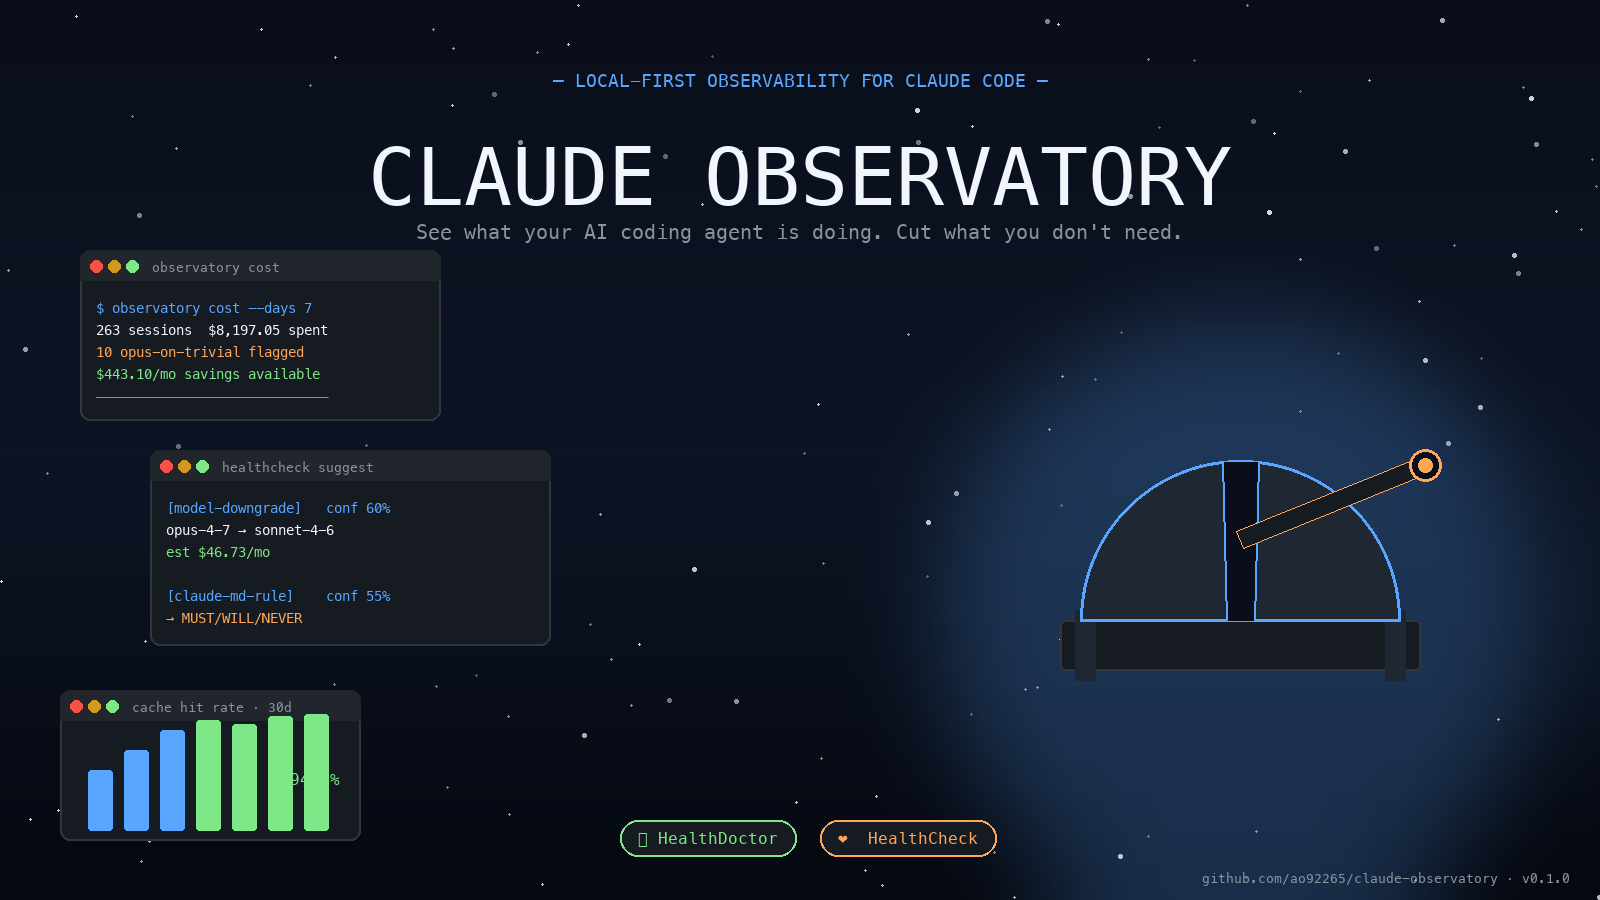
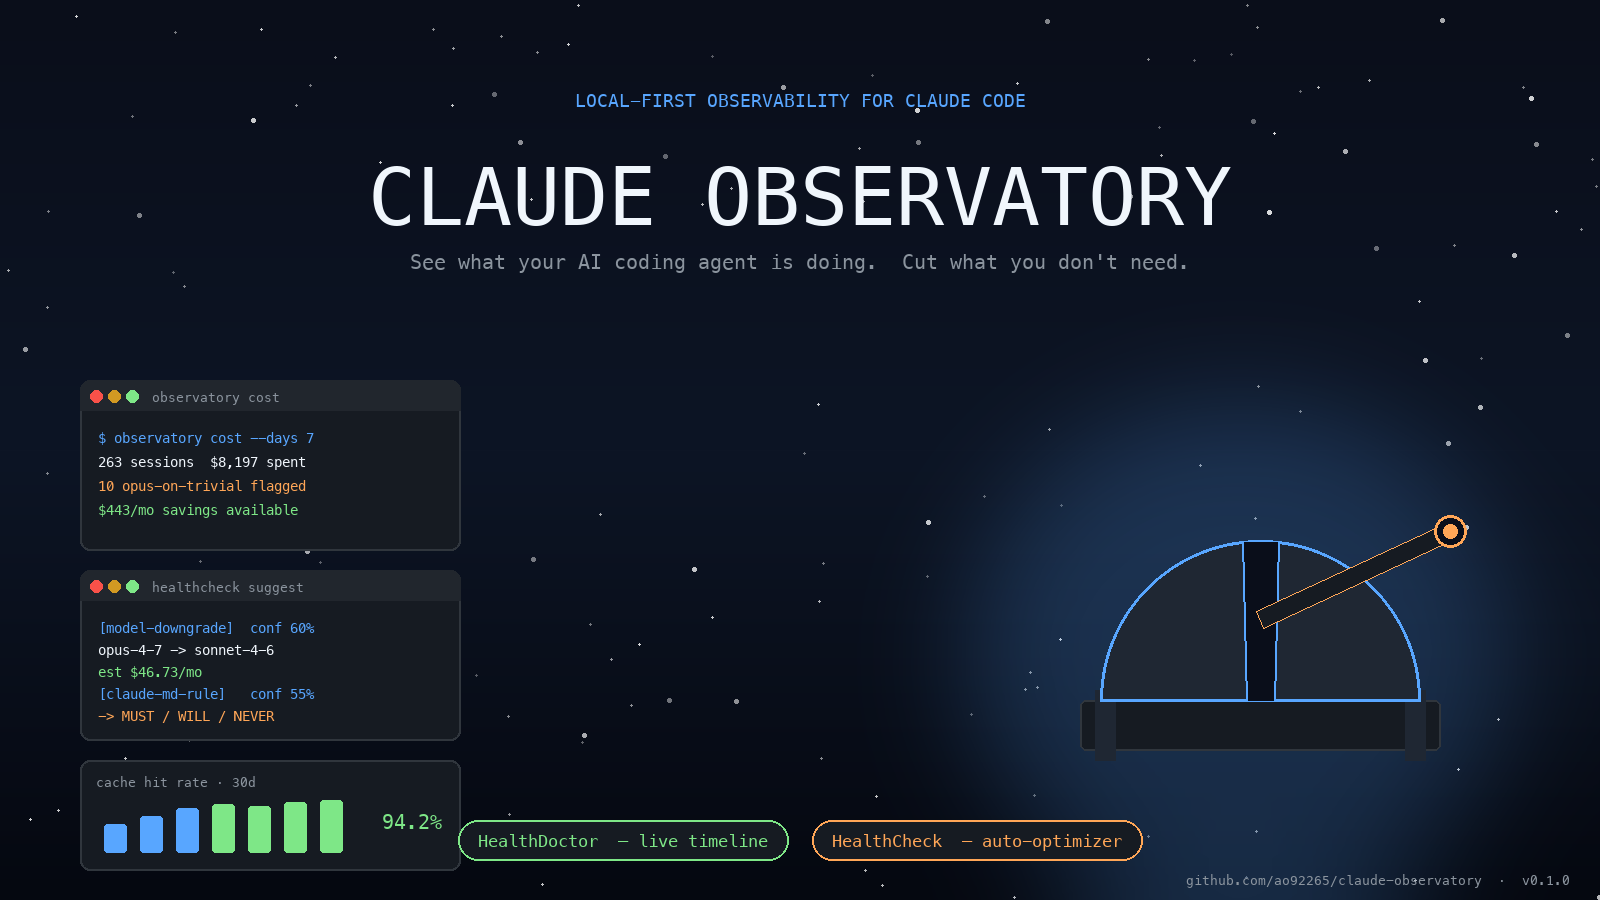
docs: rewrite viva post in human voice, fix cover layout
Post:
- Drop AI-tells (em dashes, "Hey all", "So here's the thing")
- Concrete, casual, less hype
- Real findings block kept verbatim

Cover image:
- 3 left panels vertically stacked, no overlap
- Bar chart separate panel, 94.2% label right of bars (was overlapping)
- Bottom pills with descriptive labels (no emoji glyph boxes)
- Observatory clear of UI elements
- Footer readable bottom-right

diff --git a/docs/images/build_cover.py b/docs/images/build_cover.py
@@ -1,4 +1,8 @@
-"""Generate viva-cover.png at 1600x900 directly with Pillow (no SVG rasterizer needed)."""
+"""Generate viva-cover.png at 1600x900 with Pillow. No SVG rasterizer needed."""
+from __future__ import annotations
+
+import math
+import random
 from pathlib import Path
 
 from PIL import Image, ImageDraw, ImageFilter, ImageFont
@@ -22,14 +26,12 @@ RED = (248, 81, 73)
 YELLOW = (210, 153, 34)
 
 
-def font(size: int, bold: bool = False) -> ImageFont.FreeTypeFont:
-    candidates = [
+def font(size: int) -> ImageFont.FreeTypeFont:
+    for p in (
         "/System/Library/Fonts/Menlo.ttc",
         "/System/Library/Fonts/Monaco.ttf",
         "/System/Library/Fonts/SFNSMono.ttf",
-        "/Library/Fonts/Menlo.ttc",
-    ]
-    for p in candidates:
+    ):
         if Path(p).exists():
             try:
                 return ImageFont.truetype(p, size)
@@ -38,11 +40,15 @@ def font(size: int, bold: bool = False) -> ImageFont.FreeTypeFont:
     return ImageFont.load_default()
 
 
+def text_width(draw: ImageDraw.ImageDraw, txt: str, f: ImageFont.FreeTypeFont) -> int:
+    return int(draw.textlength(txt, font=f))
+
+
 # --- Build canvas ---
 img = Image.new("RGB", (W, H), BG_MID)
 draw = ImageDraw.Draw(img)
 
-# Vertical gradient background
+# Vertical gradient
 for y in range(H):
     t = y / H
     if t < 0.5:
@@ -57,56 +63,43 @@ for y in range(H):
         b = int(BG_MID[2] * (1 - u) + BG_BOT[2] * u)
     draw.line([(0, y), (W, y)], fill=(r, g, b))
 
-# Starfield
-import random
+# Starfield (avoid the central title band 60-280)
 random.seed(7)
-for _ in range(140):
+for _ in range(160):
     x = random.randint(0, W - 1)
     y = random.randint(0, H - 1)
+    if 280 < y < 380 and 200 < x < 1400:
+        continue  # keep subtitle area clean
     r = random.choice([1, 1, 1, 2])
-    alpha = random.randint(80, 220)
-    c = (255, 255, 255, alpha)
-    star = Image.new("RGBA", (r * 3, r * 3), (0, 0, 0, 0))
-    sd = ImageDraw.Draw(star)
-    sd.ellipse([0, 0, r * 2, r * 2], fill=c)
-    img.paste(star, (x, y), star)
+    a = random.randint(80, 220)
+    s = Image.new("RGBA", (r * 3, r * 3), (0, 0, 0, 0))
+    ImageDraw.Draw(s).ellipse([0, 0, r * 2, r * 2], fill=(255, 255, 255, a))
+    img.paste(s, (x, y), s)
 
-# Glow halo around dome (right side)
+# Glow halo around dome
 glow = Image.new("RGBA", (W, H), (0, 0, 0, 0))
-gd = ImageDraw.Draw(glow)
-gd.ellipse([900, 280, 1580, 960], fill=(88, 166, 255, 60))
-glow = glow.filter(ImageFilter.GaussianBlur(60))
+ImageDraw.Draw(glow).ellipse([920, 360, 1560, 940], fill=(88, 166, 255, 55))
+glow = glow.filter(ImageFilter.GaussianBlur(70))
 img.paste(glow, (0, 0), glow)
 
 # --- Observatory (right) ---
-ox, oy = 1240, 620
-# Base platform
+ox, oy = 1260, 700
 draw.rounded_rectangle([ox - 180, oy, ox + 180, oy + 50], radius=6, fill=PANEL, outline=BORDER, width=2)
-# Pillars
 draw.rectangle([ox - 165, oy - 10, ox - 145, oy + 60], fill=(31, 39, 51))
 draw.rectangle([ox + 145, oy - 10, ox + 165, oy + 60], fill=(31, 39, 51))
-# Dome (half-circle on top)
 draw.pieslice([ox - 160, oy - 160, ox + 160, oy + 160], 180, 360, fill=(31, 39, 51), outline=BLUE, width=3)
-# Dome slit
 draw.polygon([(ox - 18, oy - 158), (ox + 18, oy - 158), (ox + 14, oy), (ox - 14, oy)], fill=BG_TOP)
 draw.line([(ox - 18, oy - 158), (ox - 14, oy)], fill=BLUE, width=2)
 draw.line([(ox + 18, oy - 158), (ox + 14, oy)], fill=BLUE, width=2)
-# Telescope barrel (tilted)
-import math
-angle = math.radians(-22)
+# Telescope barrel
+angle = math.radians(-25)
 cx, cy = ox, oy - 80
-tl = 200
-tw = 18
+tl, tw = 210, 18
 dx, dy = math.cos(angle), math.sin(angle)
 px, py = -math.sin(angle) * tw / 2, math.cos(angle) * tw / 2
 ax, ay = cx + dx * tl, cy + dy * tl
 draw.polygon(
-    [
-        (cx + px, cy + py),
-        (cx - px, cy - py),
-        (ax - px, ay - py),
-        (ax + px, ay + py),
-    ],
+    [(cx + px, cy + py), (cx - px, cy - py), (ax - px, ay - py), (ax + px, ay + py)],
     fill=PANEL,
     outline=ORANGE,
 )
@@ -114,7 +107,16 @@ draw.ellipse([ax - 16, ay - 16, ax + 16, ay + 16], fill=BG_TOP, outline=ORANGE, 
 draw.ellipse([ax - 7, ay - 7, ax + 7, ay + 7], fill=ORANGE)
 
 
-def panel(x: int, y: int, w: int, h: int, title: str, lines: list[tuple[str, tuple[int, int, int]]]) -> None:
+def panel(
+    x: int,
+    y: int,
+    w: int,
+    h: int,
+    title: str,
+    lines: list[tuple[str, tuple[int, int, int]]],
+    line_h: int = 24,
+    pad_top: int = 50,
+) -> None:
     draw.rounded_rectangle([x, y, x + w, y + h], radius=10, fill=PANEL, outline=BORDER, width=2)
     draw.rounded_rectangle([x, y, x + w, y + 30], radius=10, fill=PANEL_HEAD)
     draw.rectangle([x, y + 20, x + w, y + 30], fill=PANEL_HEAD)
@@ -123,76 +125,87 @@ def panel(x: int, y: int, w: int, h: int, title: str, lines: list[tuple[str, tup
     draw.ellipse([x + 46, y + 10, x + 58, y + 22], fill=GREEN)
     draw.text((x + 72, y + 9), title, fill=DIM, font=font(13))
     for i, (txt, col) in enumerate(lines):
-        draw.text((x + 16, y + 50 + i * 22), txt, fill=col, font=font(14))
+        draw.text((x + 18, y + pad_top + i * line_h), txt, fill=col, font=font(14))
 
 
-# --- Three terminal panels ---
+# --- Three terminal panels (left side, vertically spaced, no overlap) ---
 panel(
-    80, 250, 360, 170, "observatory cost",
+    80, 380, 380, 170, "observatory cost",
     [
         ("$ observatory cost --days 7", BLUE),
-        ("263 sessions  $8,197.05 spent", FG),
+        ("263 sessions  $8,197 spent", FG),
         ("10 opus-on-trivial flagged", ORANGE),
-        ("$443.10/mo savings available", GREEN),
-        ("─────────────────────────────", DIM),
+        ("$443/mo savings available", GREEN),
     ],
 )
 panel(
-    150, 450, 400, 195, "healthcheck suggest",
+    80, 570, 380, 170, "healthcheck suggest",
     [
-        ("[model-downgrade]   conf 60%", BLUE),
-        ("opus-4-7 → sonnet-4-6", FG),
+        ("[model-downgrade]  conf 60%", BLUE),
+        ("opus-4-7 -> sonnet-4-6", FG),
         ("est $46.73/mo", GREEN),
-        ("", FG),
-        ("[claude-md-rule]    conf 55%", BLUE),
-        ("→ MUST/WILL/NEVER", ORANGE),
+        ("[claude-md-rule]   conf 55%", BLUE),
+        ("-> MUST / WILL / NEVER", ORANGE),
     ],
+    line_h=22,
 )
 
-# Cache hit bar chart
-cx, cy = 60, 690
-panel(cx, cy, 300, 150, "cache hit rate · 30d", [])
-bars = [60, 80, 100, 110, 106, 114, 116]
-for i, h in enumerate(bars):
-    x0 = cx + 28 + i * 36
+# Cache chart panel (bottom-left, distinct from terminal panels)
+cx, cy, cw, ch = 80, 760, 380, 110
+draw.rounded_rectangle([cx, cy, cx + cw, cy + ch], radius=10, fill=PANEL, outline=BORDER, width=2)
+draw.text((cx + 16, cy + 14), "cache hit rate · 30d", fill=DIM, font=font(13))
+# bars
+bar_top, bar_base = cy + 40, cy + 92
+bar_w, gap = 22, 14
+heights = [28, 36, 44, 48, 46, 50, 52]
+start_x = cx + 24
+for i, h in enumerate(heights):
+    x0 = start_x + i * (bar_w + gap)
     color = BLUE if i < 3 else GREEN
-    draw.rounded_rectangle([x0, cy + 140 - h, x0 + 24, cy + 140], radius=3, fill=color)
-draw.text((cx + 230, cy + 80), "94.2%", fill=GREEN, font=font(16))
+    draw.rounded_rectangle([x0, bar_base - h, x0 + bar_w, bar_base], radius=3, fill=color)
+# 94.2% label — placed RIGHT of bars, not on top
+label = "94.2%"
+lf = font(20)
+draw.text((cx + cw - text_width(draw, label, lf) - 18, cy + 50), label, fill=GREEN, font=lf)
 
-# --- Title block ---
-# Top kicker
-kicker = "— LOCAL-FIRST OBSERVABILITY FOR CLAUDE CODE —"
+# --- Title ---
+kicker = "LOCAL-FIRST OBSERVABILITY FOR CLAUDE CODE"
 kf = font(18)
-kw = draw.textlength(kicker, font=kf)
-draw.text(((W - kw) / 2, 70), kicker, fill=BLUE, font=kf)
+kw = text_width(draw, kicker, kf)
+draw.text(((W - kw) / 2, 90), kicker, fill=BLUE, font=kf)
 
-# Main title
 title = "CLAUDE OBSERVATORY"
-tf = font(80, bold=True)
-tw = draw.textlength(title, font=tf)
-draw.text(((W - tw) / 2, 130), title, fill=FG, font=tf)
+tf = font(80)
+tw_ = text_width(draw, title, tf)
+draw.text(((W - tw_) / 2, 150), title, fill=FG, font=tf)
 
-# Subtitle
-sub = "See what your AI coding agent is doing. Cut what you don't need."
+sub = "See what your AI coding agent is doing.  Cut what you don't need."
 sf = font(20)
-sw = draw.textlength(sub, font=sf)
-draw.text(((W - sw) / 2, 220), sub, fill=DIM, font=sf)
+sw = text_width(draw, sub, sf)
+draw.text(((W - sw) / 2, 250), sub, fill=DIM, font=sf)
 
-# --- Bottom pills ---
-def pill(x: int, y: int, label: str, color: tuple[int, int, int]) -> None:
-    w = int(draw.textlength(label, font=font(16)) + 36)
-    draw.rounded_rectangle([x, y, x + w, y + 36], radius=18, fill=PANEL, outline=color, width=2)
-    draw.text((x + 18, y + 9), label, fill=color, font=font(16))
+# --- Bottom pills (no emoji — fonts may not render glyphs) ---
+def pill(cx_: int, y: int, label: str, color: tuple[int, int, int]) -> int:
+    f = font(17)
+    w = text_width(draw, label, f) + 40
+    draw.rounded_rectangle([cx_, y, cx_ + w, y + 40], radius=20, fill=PANEL, outline=color, width=2)
+    draw.text((cx_ + 20, y + 11), label, fill=color, font=f)
+    return w
 
 
-pill(620, 820, "🩺 HealthDoctor", GREEN)
-pill(820, 820, "❤  HealthCheck", ORANGE)
+# Center the two pills horizontally
+pf = font(17)
+w1 = text_width(draw, "HealthDoctor  — live timeline", pf) + 40
+w2 = text_width(draw, "HealthCheck  — auto-optimizer", pf) + 40
+total = w1 + 24 + w2
+x1 = (W - total) // 2
+pill(x1, 820, "HealthDoctor  — live timeline", GREEN)
+pill(x1 + w1 + 24, 820, "HealthCheck  — auto-optimizer", ORANGE)
 
-# Bottom-right footer
-foot = "github.com/ao92265/claude-observatory · v0.1.0"
+# Footer (lighter, no overlap with right edge)
+foot = "github.com/ao92265/claude-observatory  ·  v0.1.0"
 ff = font(13)
-fw = draw.textlength(foot, font=ff)
-draw.text((W - fw - 30, H - 30), foot, fill=DIM, font=ff)
+draw.text((W - text_width(draw, foot, ff) - 30, H - 28), foot, fill=DIM, font=ff)
 
 img.save(OUT, "PNG", optimize=True)
 print(f"wrote {OUT} ({OUT.stat().st_size:,} bytes)")

diff --git a/docs/viva-post.md b/docs/viva-post.md
@@ -1,75 +1,67 @@
-# I built a free tool to watch (and cut) my Claude Code spend — sharing it with the team
+# Watching my Claude Code spend (and a tool I made to do it)
 
-> Open-sourced it this weekend. Found **$443/month** of waste on my own account in the first 5 minutes.
+Got fed up last week. Claude Code's a black box — sub-agents fan out, hooks fire, MCP servers eat tokens, and a week later there's a Stripe bill with no breakdown. So I built something. Sharing it in case any of you are in the same boat.
 
----
+It's called **Claude Observatory**. Two pieces:
 
-Hey all —
+**HealthDoctor** — sits on top of Claude Code and shows every hook, tool call, and MCP request live. Either in your terminal or a little web dashboard. Click an event, see what came in, what came out, how long it took, what it cost. That's it.
 
-So here's the thing that's been bugging me for months: Claude Code is amazing, but it's a black box. You fire off a session, hooks fire, sub-agents spawn, MCP servers chatter, tokens vanish, and at the end of the week you've got a Stripe invoice and zero idea where the money went.
+**HealthCheck** — reads your `~/.claude/projects/` logs and tells you where the waste is. Five things it looks for right now:
 
-Last Friday I'd had enough. Saturday morning I started building. Today I'm sharing the result: **Claude Observatory** — a free, open-source toolkit that finally lets you see what your agent is actually doing, and tells you what to fix.
+```
+unused-tool          MCP server you've called twice in 30 days, eating
+                     ~3k tokens per turn in schema overhead.
 
-## Two tools, one workflow
+opus-for-trivial     Opus session that cost $1.85 doing work sonnet
+                     would've handled for 35c.
 
-🩺 **HealthDoctor** — like Chrome DevTools, but for Claude Code. A tiny shim wraps every hook fire and streams it into a local SQLite store. A terminal UI or a web dashboard shows the live timeline. Click any event for the full payload, duration, exit code, stdin/stdout.
+low-cache-hit        You edit CLAUDE.md mid-session and kill prompt
+                     cache. Stop doing that.
 
-❤🩹 **HealthCheck** — reads your session logs and tells you what to fix. Five rules right now:
+weak-claude-md       Your CLAUDE.md says "you should usually try to..."
+                     and the model ignores 80% of it.
 
-- **unused-tool** → you've got an MCP server bolted on that you've called twice in a month. It's eating ~3k tokens per turn in schema overhead. Disable it.
-- **opus-for-trivial-work** → you ran a $1.85 session on Opus that Sonnet could've done for 35 cents. **In my data: 10 sessions like this in 30 days = $443/mo bleed.**
-- **low-cache-hit** → you're editing CLAUDE.md mid-session and killing prompt cache. Stop doing that.
-- **weak-claude-md** → your CLAUDE.md says "you should usually try to..." and the model is ignoring 80% of it. Use MUST/WILL/NEVER.
-- **tool-concentration** → 73% of your tool calls are `Bash`. That's a workflow begging to be a skill.
+tool-concentration   73% of your tool calls are Bash. That's a
+                     workflow asking to be a skill.
+```
 
-Then it can A/B test the proposed change in a git worktree, and open a PR with the evidence in the body so you don't have to take its word for anything.
+Each suggestion has a confidence score and an estimated dollar savings. It can run an A/B test of the change in a git worktree and open a PR with the evidence in the body, so you're not just trusting it.
 
-## A real example from my own data (today)
+What I found on my own data (30 days):
 
 ```
 $ healthcheck suggest --days 30
 
-1. [model-downgrade] 7b539d94-695…  (confidence 60%)
-   Session used claude-opus-4-7 for $1.95. Low spend = simple work;
-   sonnet would suffice at ~5× cheaper.
-   Est. savings: $46.73/month
+1. model-downgrade  7b539d94…   conf 60%   est $46.73/mo
+2. model-downgrade  6f9ebbc8…   conf 60%   est $45.44/mo
+3. model-downgrade  9588be80…   conf 60%   est $44.72/mo
+... 7 more ...
 
-2. [model-downgrade] 6f9ebbc8-ead…  (confidence 60%)
-   Session used claude-opus-4-7 for $1.89...
-   Est. savings: $45.44/month
-
-... 8 more ...
 TOTAL est savings: $443.10/mo
 ```
 
-That's real money. On one developer. In one month.
+Ten sessions where I'd reached for Opus and Sonnet would've been fine. $443 a month I had no idea I was leaving on the table.
 
-## Privacy
+Local-only. Nothing leaves your machine. Reads files Claude Code already writes. ~1,500 lines of mostly-stdlib Python, all auditable.
 
-Everything runs on your machine. Reads only your local `~/.claude/projects/*.jsonl` (Claude Code already writes them — nothing new collected). No cloud, no analytics, no telemetry, no phone-home. ~1,500 lines of mostly-stdlib Python you can audit in an afternoon.
+Quickstart:
 
-## Try it (5 minutes)
-
-```bash
+```
 git clone https://github.com/ao92265/claude-observatory
 cd claude-observatory
 python3 -m venv .venv && source .venv/bin/activate
 pip install -e packages/core -e packages/healthdoctor -e packages/healthcheck -e packages/web
 
-# Pull report on your last 7 days
 observatory cost --days 7
 healthcheck suggest --days 30 --claude-md ~/.claude/CLAUDE.md
 ```
 
-Run it. Tell me what you find. If you save $20, buy yourself a coffee and call it even.
+Apache 2.0. v0.1 so plenty of rough edges. Issues and PRs welcome.
 
-Apache 2.0 license. Issues and PRs very welcome — calling this v0.1, plenty of rough edges left to file off.
+If anyone wants a 10-minute demo, ping me on Teams.
 
-Happy to demo internally — drop a comment or ping me on Teams.
-
-— Alex
+Alex
 
 ---
 
-**Tags:** Claude Code · Developer Tools · Cost Optimization · Open Source · Productivity
-**Repo:** https://github.com/ao92265/claude-observatory
+Repo: https://github.com/ao92265/claude-observatory
